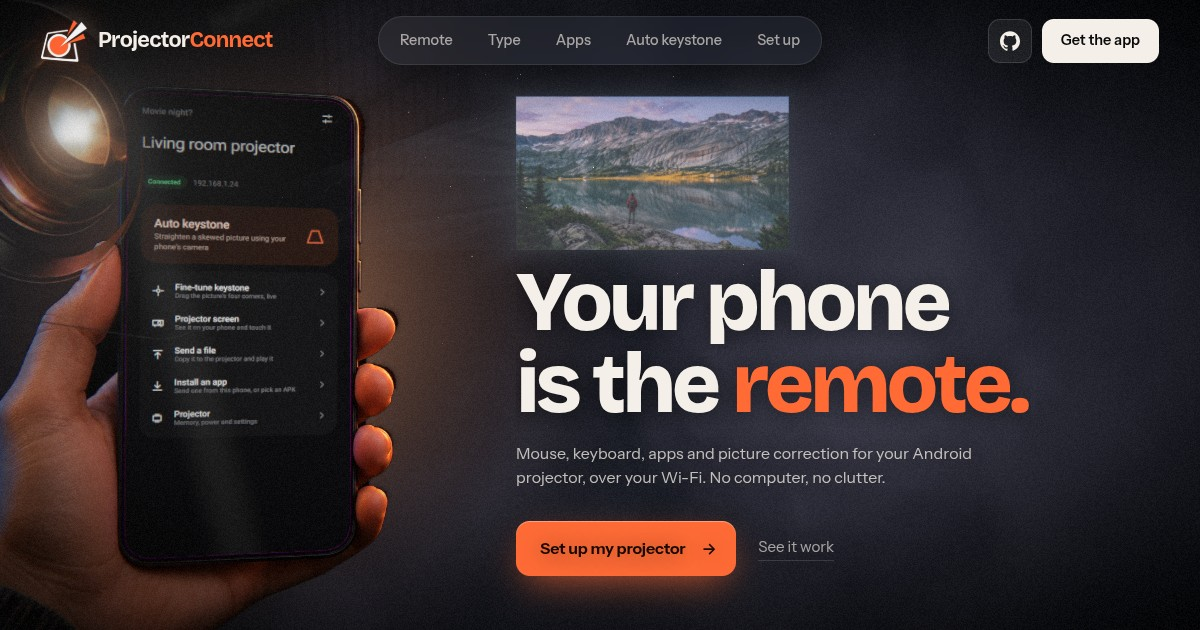
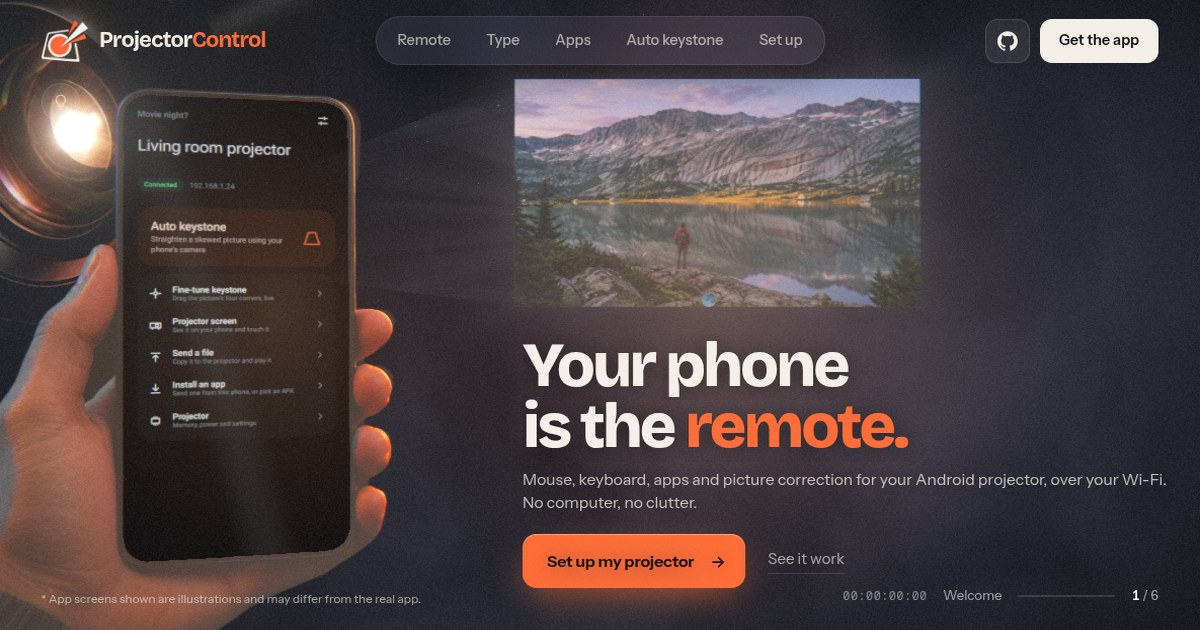
Rename the app and site to ProjectorControl
- app name, theme, log tag, diagnostics header, virtual input device names and the projector Download folder
- website title, meta, wordmark, manifest, 404 page, package name and a regenerated social-share image
- release workflow and docs use ProjectorControl.apk / ProjectorControl-<version>.apk
- the application id (dev.keystone.auto) is unchanged, so installs still update in place

diff --git a/website/index.html b/website/index.html
@@ -7,19 +7,19 @@
   <meta name="referrer" content="strict-origin-when-cross-origin">
   <meta name="color-scheme" content="dark">
   <meta name="theme-color" content="#050608">
-  <title>ProjectorConnect: Android projector remote and auto keystone</title>
+  <title>ProjectorControl: Android projector remote and auto keystone</title>
   <meta name="description" content="Turn your Android phone into the remote, keyboard and app launcher for any Android projector or TV box over Wi-Fi, and straighten the picture with camera-based auto keystone. Free, no computer.">
   <!--canonical-->
   <meta property="og:type" content="website">
-  <meta property="og:site_name" content="ProjectorConnect">
-  <meta property="og:title" content="ProjectorConnect: your phone is the projector remote">
+  <meta property="og:site_name" content="ProjectorControl">
+  <meta property="og:title" content="ProjectorControl: your phone is the projector remote">
   <meta property="og:description" content="Mouse, keyboard, apps and auto keystone for your Android projector, over Wi-Fi. No computer, no clutter.">
   <meta property="og:image" content="%SITE_URL%/assets/og.jpg">
   <meta property="og:image:width" content="1200">
   <meta property="og:image:height" content="630">
-  <meta property="og:image:alt" content="A hand holds a phone running ProjectorConnect while a projector shows a film on the wall.">
+  <meta property="og:image:alt" content="A hand holds a phone running ProjectorControl while a projector shows a film on the wall.">
   <meta name="twitter:card" content="summary_large_image">
-  <meta name="twitter:title" content="ProjectorConnect: your phone is the projector remote">
+  <meta name="twitter:title" content="ProjectorControl: your phone is the projector remote">
   <meta name="twitter:description" content="Mouse, keyboard, apps and auto keystone for your Android projector, over Wi-Fi.">
   <meta name="twitter:image" content="%SITE_URL%/assets/og.jpg">
   <link rel="icon" type="image/png" sizes="48x48" href="/assets/favicon-48.png">
@@ -27,7 +27,7 @@
   <link rel="apple-touch-icon" href="/assets/apple-touch-icon.png">
   <link rel="manifest" href="/manifest.webmanifest">
   <link rel="preload" as="image" href="/assets/hand/portrait/hold.webp" type="image/webp">
-  <script type="application/ld+json">{"@context":"https://schema.org","@type":"SoftwareApplication","name":"ProjectorConnect","applicationCategory":"MultimediaApplication","operatingSystem":"Android 8.0 or later","description":"Use your Android phone as the remote, keyboard and control panel for an Android projector or TV box over Wi-Fi, with camera-based auto keystone for compatible Hisilicon projectors.","softwareVersion":"%APK_VERSION%","downloadUrl":"%APK_URL%","fileSize":"%APK_MB% MB","image":"%SITE_URL%/assets/og.jpg","sameAs":["%REPO%"],"offers":{"@type":"Offer","price":"0","priceCurrency":"USD"}}</script>
+  <script type="application/ld+json">{"@context":"https://schema.org","@type":"SoftwareApplication","name":"ProjectorControl","applicationCategory":"MultimediaApplication","operatingSystem":"Android 8.0 or later","description":"Use your Android phone as the remote, keyboard and control panel for an Android projector or TV box over Wi-Fi, with camera-based auto keystone for compatible Hisilicon projectors.","softwareVersion":"%APK_VERSION%","downloadUrl":"%APK_URL%","fileSize":"%APK_MB% MB","image":"%SITE_URL%/assets/og.jpg","sameAs":["%REPO%"],"offers":{"@type":"Offer","price":"0","priceCurrency":"USD"}}</script>
   <link rel="stylesheet" href="/src/style.css">
   <script type="module" src="/src/main.js"></script>
   <style>html{background:#050608}body.is-loading{overflow:hidden}</style>
@@ -61,9 +61,9 @@
   <div class="cursor" aria-hidden="true"><span></span></div>
 
   <header class="site-header">
-    <a class="brand" href="#top" aria-label="ProjectorConnect, back to top">
+    <a class="brand" href="#top" aria-label="ProjectorControl, back to top">
       <img src="/assets/logo-96.webp" width="46" height="46" alt="">
-      <span class="wordmark">Projector<b>Connect</b></span>
+      <span class="wordmark">Projector<b>Control</b></span>
     </a>
     <div class="nav-wrap" id="nav-wrap">
       <span class="nav-glass" aria-hidden="true"></span>
@@ -77,7 +77,7 @@
       <span class="nav-lens" aria-hidden="true"></span>
     </div>
     <div class="header-actions">
-      <a class="gh" href="%REPO%" target="_blank" rel="noopener noreferrer" aria-label="ProjectorConnect on GitHub (opens in a new tab)" title="View the source on GitHub"><svg viewBox="0 0 24 24" width="20" height="20" aria-hidden="true" focusable="false"><path fill="currentColor" d="M12 .297c-6.63 0-12 5.373-12 12 0 5.303 3.438 9.8 8.205 11.385.6.113.82-.258.82-.577 0-.285-.01-1.04-.015-2.04-3.338.724-4.042-1.61-4.042-1.61C4.422 18.07 3.633 17.7 3.633 17.7c-1.087-.744.084-.729.084-.729 1.205.084 1.838 1.236 1.838 1.236 1.07 1.835 2.809 1.305 3.495.998.108-.776.417-1.305.76-1.605-2.665-.3-5.466-1.332-5.466-5.93 0-1.31.465-2.38 1.235-3.22-.135-.303-.54-1.523.105-3.176 0 0 1.005-.322 3.3 1.23.96-.267 1.98-.399 3-.405 1.02.006 2.04.138 3 .405 2.28-1.552 3.285-1.23 3.285-1.23.645 1.653.24 2.873.12 3.176.765.84 1.23 1.91 1.23 3.22 0 4.61-2.805 5.625-5.475 5.92.42.36.81 1.096.81 2.22 0 1.606-.015 2.896-.015 3.286 0 .315.21.69.825.57C20.565 22.092 24 17.592 24 12.297c0-6.627-5.373-12-12-12"/></svg></a>
+      <a class="gh" href="%REPO%" target="_blank" rel="noopener noreferrer" aria-label="ProjectorControl on GitHub (opens in a new tab)" title="View the source on GitHub"><svg viewBox="0 0 24 24" width="20" height="20" aria-hidden="true" focusable="false"><path fill="currentColor" d="M12 .297c-6.63 0-12 5.373-12 12 0 5.303 3.438 9.8 8.205 11.385.6.113.82-.258.82-.577 0-.285-.01-1.04-.015-2.04-3.338.724-4.042-1.61-4.042-1.61C4.422 18.07 3.633 17.7 3.633 17.7c-1.087-.744.084-.729.084-.729 1.205.084 1.838 1.236 1.838 1.236 1.07 1.835 2.809 1.305 3.495.998.108-.776.417-1.305.76-1.605-2.665-.3-5.466-1.332-5.466-5.93 0-1.31.465-2.38 1.235-3.22-.135-.303-.54-1.523.105-3.176 0 0 1.005-.322 3.3 1.23.96-.267 1.98-.399 3-.405 1.02.006 2.04.138 3 .405 2.28-1.552 3.285-1.23 3.285-1.23.645 1.653.24 2.873.12 3.176.765.84 1.23 1.91 1.23 3.22 0 4.61-2.805 5.625-5.475 5.92.42.36.81 1.096.81 2.22 0 1.606-.015 2.896-.015 3.286 0 .315.21.69.825.57C20.565 22.092 24 17.592 24 12.297c0-6.627-5.373-12-12-12"/></svg></a>
       <a class="get magnetic" href="#setup" data-go="5">Get the app</a>
     </div>
   </header>
@@ -96,7 +96,7 @@
 
   <main id="top">
     <section class="sr-only" aria-labelledby="overview-h">
-      <h1 id="overview-h">ProjectorConnect: your phone is the remote</h1>
+      <h1 id="overview-h">ProjectorControl: your phone is the remote</h1>
       <p>The page scrolls through five features. Each is shown on a hand holding a phone that controls a projected screen.</p>
       <ul>
         <li><strong>Remote.</strong> A touchpad, an air mouse you steer by tilting the phone, and a D-pad. The phone's volume keys control the projector too.</li>
@@ -221,7 +221,7 @@
             <div class="step-body">
               <ol>
                 <li>Put the phone and projector on the same Wi-Fi.</li>
-                <li>Open <strong>ProjectorConnect</strong> and tap <strong>Find my projector</strong>.</li>
+                <li>Open <strong>ProjectorControl</strong> and tap <strong>Find my projector</strong>.</li>
                 <li>Choose your projector. If it asks <em>Allow debugging?</em>, pick <strong>Always allow</strong>.</li>
                 <li>Open <strong>Remote</strong>, choose <strong>D-pad</strong> and tap a direction.</li>
               </ol>
@@ -242,7 +242,7 @@
       </div>
 
       <footer class="footer">
-        <a class="brand" href="#top"><img src="/assets/logo-96.webp" width="34" height="34" alt=""><span class="wordmark">Projector<b>Connect</b></span></a>
+        <a class="brand" href="#top"><img src="/assets/logo-96.webp" width="34" height="34" alt=""><span class="wordmark">Projector<b>Control</b></span></a>
         <p>An independent project. Not affiliated with any projector maker or app shown. App names and logos belong to their owners. * Screens are illustrations.</p>
         <a href="%REPO%" target="_blank" rel="noopener noreferrer">Source on GitHub</a>
       </footer>

diff --git a/app/src/main/kotlin/dev/keystone/auto/link/RemoteInput.kt b/app/src/main/kotlin/dev/keystone/auto/link/RemoteInput.kt
@@ -76,15 +76,15 @@ object InputProtocol {
     val KEYBOARD_KEYS: List<Int> = (1..248).toList() + listOf(352, 353, 358, 362, 402, 403, 580)
 
     fun registerMouse(): String =
-        """{"id":$MOUSE_ID,"command":"register","name":"ProjectorConnect Mouse","vid":6353,"pid":11330,"bus":"usb","configuration":[""" +
+        """{"id":$MOUSE_ID,"command":"register","name":"ProjectorControl Mouse","vid":6353,"pid":11330,"bus":"usb","configuration":[""" +
             """{"type":100,"data":[1,2]},{"type":101,"data":[272,273,274]},{"type":102,"data":[0,1,6,8]}],"ff_effects_max":0}"""
 
     fun registerKeyboard(): String =
-        """{"id":$KEYBOARD_ID,"command":"register","name":"ProjectorConnect Keyboard","vid":6353,"pid":11331,"bus":"usb","configuration":[""" +
+        """{"id":$KEYBOARD_ID,"command":"register","name":"ProjectorControl Keyboard","vid":6353,"pid":11331,"bus":"usb","configuration":[""" +
             """{"type":100,"data":[1]},{"type":101,"data":[${KEYBOARD_KEYS.joinToString(",")}]}],"ff_effects_max":0}"""
 
     const val TOUCH_ID = 3
-    const val TOUCH_NAME = "ProjectorConnect Touch"
+    const val TOUCH_NAME = "ProjectorControl Touch"
     const val TOUCH_SLOTS = 2
 
     /** A virtual multi-touch screen (protocol B) the size of the projector's 1280x720 framebuffer. */
@@ -211,7 +211,7 @@ class RemoteInput(private val sh: Shell, private val registerTimeoutMs: Long = R
         // The projector's JVM is slow to start: wait until Android lists the keyboard (the second device registered).
         val deadline = System.currentTimeMillis() + registerTimeoutMs
         while (System.currentTimeMillis() < deadline) {
-            val seen = try { sh.run("dumpsys input | grep -c 'ProjectorConnect Keyboard'").out.trim().toIntOrNull() ?: 0 } catch (_: Exception) { 0 }
+            val seen = try { sh.run("dumpsys input | grep -c 'ProjectorControl Keyboard'").out.trim().toIntOrNull() ?: 0 } catch (_: Exception) { 0 }
             if (seen > 0) break
             Thread.sleep(300)
         }

diff --git a/app/src/test/kotlin/dev/keystone/auto/ui/TuneUiTest.kt b/app/src/test/kotlin/dev/keystone/auto/ui/TuneUiTest.kt
@@ -11,7 +11,7 @@ import androidx.compose.ui.test.junit4.createAndroidComposeRule
 import dev.keystone.auto.TuneState
 import dev.keystone.auto.core.*
 import dev.keystone.auto.ui.screens.TuneContent
-import dev.keystone.auto.ui.theme.ProjectorConnectTheme
+import dev.keystone.auto.ui.theme.ProjectorControlTheme
 import org.junit.Assert.*
 import org.junit.Rule
 import org.junit.Test
@@ -33,7 +33,7 @@ class TuneUiTest {
         var cur by mutableStateOf(base)
         val view = TuneView(base)
         rule.setContent {
-            ProjectorConnectTheme(true) {
+            ProjectorControlTheme(true) {
                 TuneContent(TuneState.Ready(view, null), cur, onMove = { cur = it; onMoved(it) }, onRetry = {}, onBack = {}, initiallySelected = initiallySelected)
             }
         }
@@ -97,7 +97,7 @@ class TuneUiTest {
 
     @Test fun nothingMovesBeforeTheProjectorIsReady() {
         var moved = false
-        rule.setContent { ProjectorConnectTheme(true) { TuneContent(TuneState.Starting(), base, { moved = true }, {}, {}, initiallySelected = 2) } }
+        rule.setContent { ProjectorControlTheme(true) { TuneContent(TuneState.Starting(), base, { moved = true }, {}, {}, initiallySelected = 2) } }
         rule.waitForIdle()
         assertTrue(rule.onAllNodesWithContentDescription("Move right").fetchSemanticsNodes().isEmpty())
         assertFalse(moved)
@@ -112,7 +112,7 @@ class TuneUiTest {
         var state by mutableStateOf<TuneState>(TuneState.Starting())
         val view = TuneView(base)
         rule.setContent {
-            ProjectorConnectTheme(true) { TuneContent(state, cur, onMove = { cur = it }, onRetry = {}, onBack = {}) }
+            ProjectorControlTheme(true) { TuneContent(state, cur, onMove = { cur = it }, onRetry = {}, onBack = {}) }
         }
         rule.waitForIdle()
         return Live({ cur }, { state = TuneState.Ready(view, null); rule.waitForIdle() })

diff --git a/app/src/main/kotlin/dev/keystone/auto/link/ProjectorTools.kt b/app/src/main/kotlin/dev/keystone/auto/link/ProjectorTools.kt
@@ -71,12 +71,12 @@ class ProjectorTools(private val sh: Shell) {
     }
 
     /**
-     * Copies a phone file (video, photo, music) to the projector's Download/ProjectorConnect folder and opens it in
+     * Copies a phone file (video, photo, music) to the projector's Download/ProjectorControl folder and opens it in
      * whatever player the projector has. Returns the path on the projector.
      */
     fun sendAndOpen(source: InstallSource, mime: String?, onStep: (String) -> Unit = {}): InstallResult {
         val name = safeFileName(source.name)
-        val dir = "/sdcard/Download/ProjectorConnect"
+        val dir = "/sdcard/Download/ProjectorControl"
         val remote = "$dir/$name"
         sh.run("mkdir -p ${dir.shellQuote()}")
         onStep("Sending $name…")
@@ -85,7 +85,7 @@ class ProjectorTools(private val sh: Shell) {
         val type = (mime?.takeIf { it.contains('/') && !it.endsWith("/*") } ?: mimeFor(name))
         val r = sh.run("am start -a android.intent.action.VIEW -d ${("file://$remote").shellQuote()} -t ${type.shellQuote()} 2>&1")
         val failed = r.out.contains("Error", true) || r.out.contains("unable to resolve", true) || r.out.contains("Exception", true)
-        return if (failed) InstallResult(false, "Sent, but the projector has no app that opens $type. It is in Download/ProjectorConnect.")
+        return if (failed) InstallResult(false, "Sent, but the projector has no app that opens $type. It is in Download/ProjectorControl.")
         else InstallResult(true, "Playing on the projector.")
     }
 

diff --git a/app/src/test/kotlin/dev/keystone/auto/ui/UiSnapshotTest.kt b/app/src/test/kotlin/dev/keystone/auto/ui/UiSnapshotTest.kt
@@ -13,7 +13,7 @@ import dev.keystone.auto.data.HistoryEntry
 import dev.keystone.auto.link.ProjectorInfo
 import dev.keystone.auto.platform.AppLog
 import dev.keystone.auto.ui.screens.*
-import dev.keystone.auto.ui.theme.ProjectorConnectTheme
+import dev.keystone.auto.ui.theme.ProjectorControlTheme
 import org.junit.Rule
 import org.junit.Test
 import org.junit.runner.RunWith
@@ -35,7 +35,7 @@ class UiSnapshotTest {
     private fun vm() = AppViewModel(ApplicationProvider.getApplicationContext<Application>())
 
     private fun snap(name: String, dark: Boolean = true, content: @Composable () -> Unit) {
-        rule.setContent { ProjectorConnectTheme(dark) { content() } }
+        rule.setContent { ProjectorControlTheme(dark) { content() } }
         rule.waitForIdle()
         rule.mainClock.advanceTimeBy(1500)
         rule.waitForIdle()
@@ -164,7 +164,7 @@ class UiSnapshotTest {
         snap("16_log") { LogScreen(vm()) }
     }
 
-    // ---- ProjectorConnect: home, remote, keyboard, apps, install, projector --------------------------------------
+    // ---- ProjectorControl: home, remote, keyboard, apps, install, projector --------------------------------------
     private fun connectedVm(): AppViewModel = vm().also { it.connect.value = ConnectState.Connected(info, ks) }
 
     @Test fun home() = snap("20_home") { HomeScreen(connectedVm()) }

diff --git a/app/src/test/kotlin/dev/keystone/auto/LiveToolsTest.kt b/app/src/test/kotlin/dev/keystone/auto/LiveToolsTest.kt
@@ -30,7 +30,7 @@ class LiveToolsTest {
     @Test
     fun virtualMouseAndKeyboardAppearAndDisappear() {
         AdbConnection.connect(host()).use { c ->
-            fun devices() = c.run("dumpsys input | grep -E '^  Device [0-9]+: ProjectorConnect' | wc -l").out.trim().toIntOrNull() ?: -1
+            fun devices() = c.run("dumpsys input | grep -E '^  Device [0-9]+: ProjectorControl' | wc -l").out.trim().toIntOrNull() ?: -1
             assertEquals("a stale virtual device is already there", 0, devices())
             RemoteInput(c).use { r ->
                 val t0 = System.currentTimeMillis()
@@ -65,7 +65,7 @@ class LiveMirrorTest {
             assertTrue(units.isNotEmpty())
             assertTrue("the first unit must be a key frame with SPS/PPS", units.first().second)
 
-            fun touchDevices() = c.run("dumpsys input | grep -E '^  Device [0-9]+: ProjectorConnect Touch' | wc -l").out.trim().toIntOrNull() ?: -1
+            fun touchDevices() = c.run("dumpsys input | grep -E '^  Device [0-9]+: ProjectorControl Touch' | wc -l").out.trim().toIntOrNull() ?: -1
             assertEquals(0, touchDevices())
             TouchInput(c).use { t -> t.start(); assertTrue(t.isOpen); assertEquals(1, touchDevices()) }
             Thread.sleep(1500)

diff --git a/app/src/test/kotlin/dev/keystone/auto/ui/CaptureSnapshotTest.kt b/app/src/test/kotlin/dev/keystone/auto/ui/CaptureSnapshotTest.kt
@@ -13,7 +13,7 @@ import androidx.compose.ui.graphics.Color
 import androidx.compose.ui.test.junit4.createAndroidComposeRule
 import dev.keystone.auto.CaptureItem
 import dev.keystone.auto.ui.screens.CaptureOverlay
-import dev.keystone.auto.ui.theme.ProjectorConnectTheme
+import dev.keystone.auto.ui.theme.ProjectorControlTheme
 import org.junit.Rule
 import org.junit.Test
 import org.junit.runner.RunWith
@@ -30,7 +30,7 @@ class CaptureSnapshotTest {
     @get:Rule val rule = createAndroidComposeRule<ComponentActivity>()
 
     private fun snap(name: String, content: @Composable () -> Unit) {
-        rule.setContent { ProjectorConnectTheme(true) { Box(Modifier.fillMaxSize().background(Color(0xFF2A2F3A))) { content() } } }
+        rule.setContent { ProjectorControlTheme(true) { Box(Modifier.fillMaxSize().background(Color(0xFF2A2F3A))) { content() } } }
         rule.waitForIdle()
         val view = rule.activity.window.decorView
         val w = view.width.takeIf { it > 0 } ?: 2673

diff --git a/app/src/main/kotlin/dev/keystone/auto/AppViewModel.kt b/app/src/main/kotlin/dev/keystone/auto/AppViewModel.kt
@@ -991,7 +991,7 @@ class AppViewModel(app: Application) : AndroidViewModel(app) {
                 val version = runCatching { app.packageManager.getPackageInfo(app.packageName, 0).versionName }.getOrNull() ?: "?"
                 val text = Diagnostics.report(DiagnosticsInput(c.info, st, ping, temp, auto, link.value, version, "${android.os.Build.MANUFACTURER} ${android.os.Build.MODEL}"))
                 val cm = app.getSystemService(android.content.Context.CLIPBOARD_SERVICE) as android.content.ClipboardManager
-                cm.setPrimaryClip(android.content.ClipData.newPlainText("ProjectorConnect report", text))
+                cm.setPrimaryClip(android.content.ClipData.newPlainText("ProjectorControl report", text))
                 toast.value = "Report copied. Paste it wherever you need it."
             } catch (e: Exception) { fail("Couldn't build the report", e) }
         }

diff --git a/website/vite.config.js b/website/vite.config.js
@@ -4,7 +4,7 @@ import path from 'node:path';
 import crypto from 'node:crypto';
 
 // Build-time details so the page can never drift from the real APK, plus the production Content-Security-Policy.
-const SITE_URL = (process.env.SITE_URL || '').replace(/\/$/, '');   // e.g. https://projectorconnect.example (optional)
+const SITE_URL = (process.env.SITE_URL || '').replace(/\/$/, '');   // e.g. https://projectorcontrol.example (optional)
 const REPO = 'https://github.com/Yuvraj675/projector-control';
 
 // website/release.json is written by the release workflow (.github/workflows/release.yml) every time a release is published, so the
@@ -33,7 +33,7 @@ const CSP = [
 
 export default defineConfig(({ command }) => ({
   plugins: [{
-    name: 'projectorconnect-html',
+    name: 'projectorcontrol-html',
     transformIndexHtml(html) {
       const a = apkInfo();
       let out = html

diff --git a/app/src/main/kotlin/dev/keystone/auto/MainActivity.kt b/app/src/main/kotlin/dev/keystone/auto/MainActivity.kt
@@ -13,7 +13,7 @@ import androidx.compose.ui.platform.LocalView
 import androidx.core.view.WindowCompat
 import dev.keystone.auto.link.RemoteKey
 import dev.keystone.auto.ui.AppRoot
-import dev.keystone.auto.ui.theme.ProjectorConnectTheme
+import dev.keystone.auto.ui.theme.ProjectorControlTheme
 
 class MainActivity : ComponentActivity() {
     private val vm: AppViewModel by viewModels()
@@ -29,7 +29,7 @@ class MainActivity : ComponentActivity() {
             SideEffect {
                 WindowCompat.getInsetsController(window, view).apply { isAppearanceLightStatusBars = !dark; isAppearanceLightNavigationBars = !dark }
             }
-            ProjectorConnectTheme(dark) { AppRoot(vm, finish = { finish() }) }
+            ProjectorControlTheme(dark) { AppRoot(vm, finish = { finish() }) }
         }
     }
 

diff --git a/app/src/test/kotlin/dev/keystone/auto/RemoteToolsTest.kt b/app/src/test/kotlin/dev/keystone/auto/RemoteToolsTest.kt
@@ -193,9 +193,9 @@ class RemoteToolsTest {
         val src = object : InstallSource { override val name = "My Film.mp4"; override fun open() = ByteArrayInputStream(ByteArray(10)) }
         val r = ProjectorTools(sh).sendAndOpen(src, "video/*")
         assertTrue(r.ok)
-        assertEquals(setOf("/sdcard/Download/ProjectorConnect/My Film.mp4"), sh.pushed.keys)
+        assertEquals(setOf("/sdcard/Download/ProjectorControl/My Film.mp4"), sh.pushed.keys)
         val open = sh.commands.last()
-        assertTrue(open.contains("-t 'video/mp4'") && open.contains("file:///sdcard/Download/ProjectorConnect/My Film.mp4"))
+        assertTrue(open.contains("-t 'video/mp4'") && open.contains("file:///sdcard/Download/ProjectorControl/My Film.mp4"))
     }
 
     @Test

diff --git a/app/src/main/kotlin/dev/keystone/auto/link/Diagnostics.kt b/app/src/main/kotlin/dev/keystone/auto/link/Diagnostics.kt
@@ -15,7 +15,7 @@ data class DiagnosticsInput(
 object Diagnostics {
     /** Plain-text report. Contains no IP address or MAC: it is meant to be shared. */
     fun report(d: DiagnosticsInput): String = buildString {
-        appendLine("ProjectorConnect ${d.appVersion} on ${d.phone}")
+        appendLine("ProjectorControl ${d.appVersion} on ${d.phone}")
         appendLine("Projector: ${d.info.displayName}, Android ${d.info.androidRelease} (API ${d.info.sdk})")
         appendLine("Supported (Hisilicon TV API): ${if (d.info.supported) "yes" else "no - ${d.info.unsupportedReason}"}")
         appendLine("Link: ${d.link}, response time: ${d.pingMs?.let { "$it ms" } ?: "unknown"} (${rate(d.pingMs)})")
